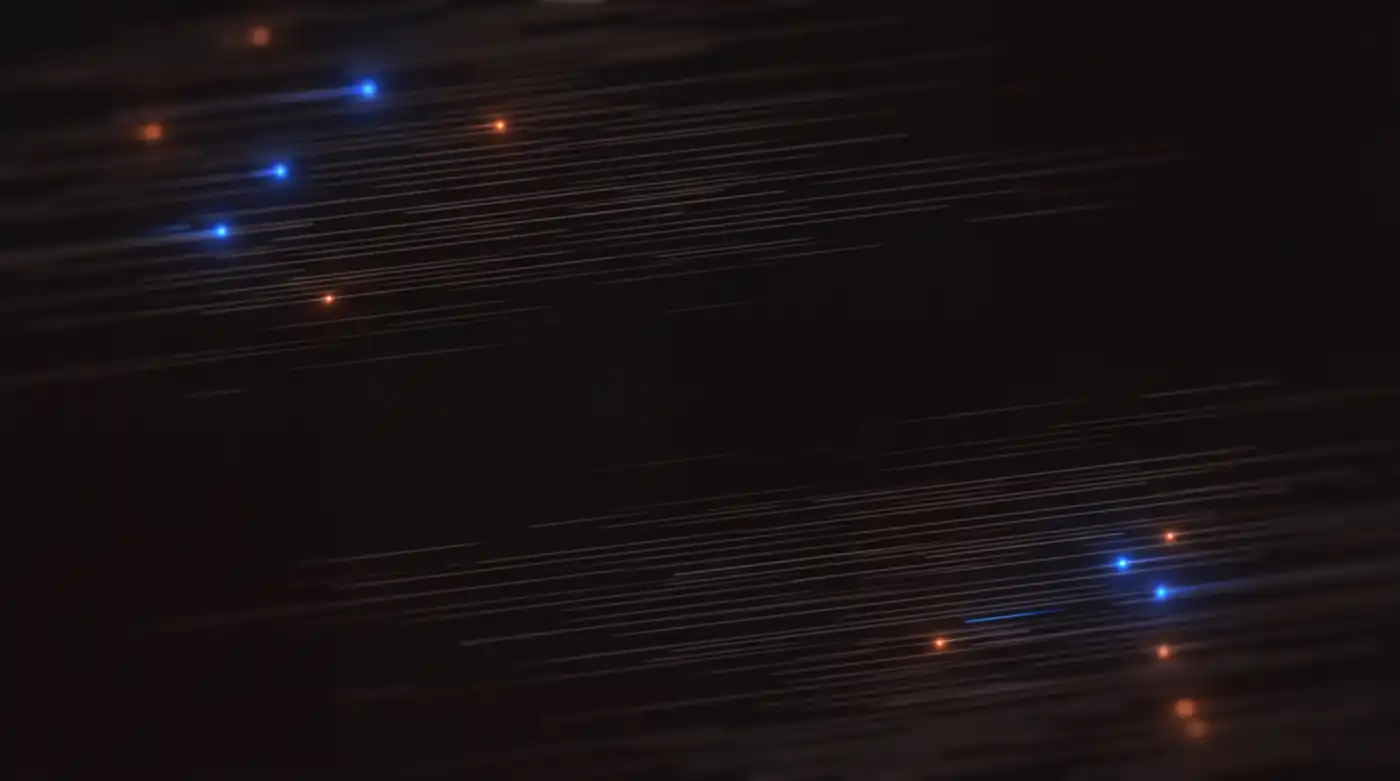
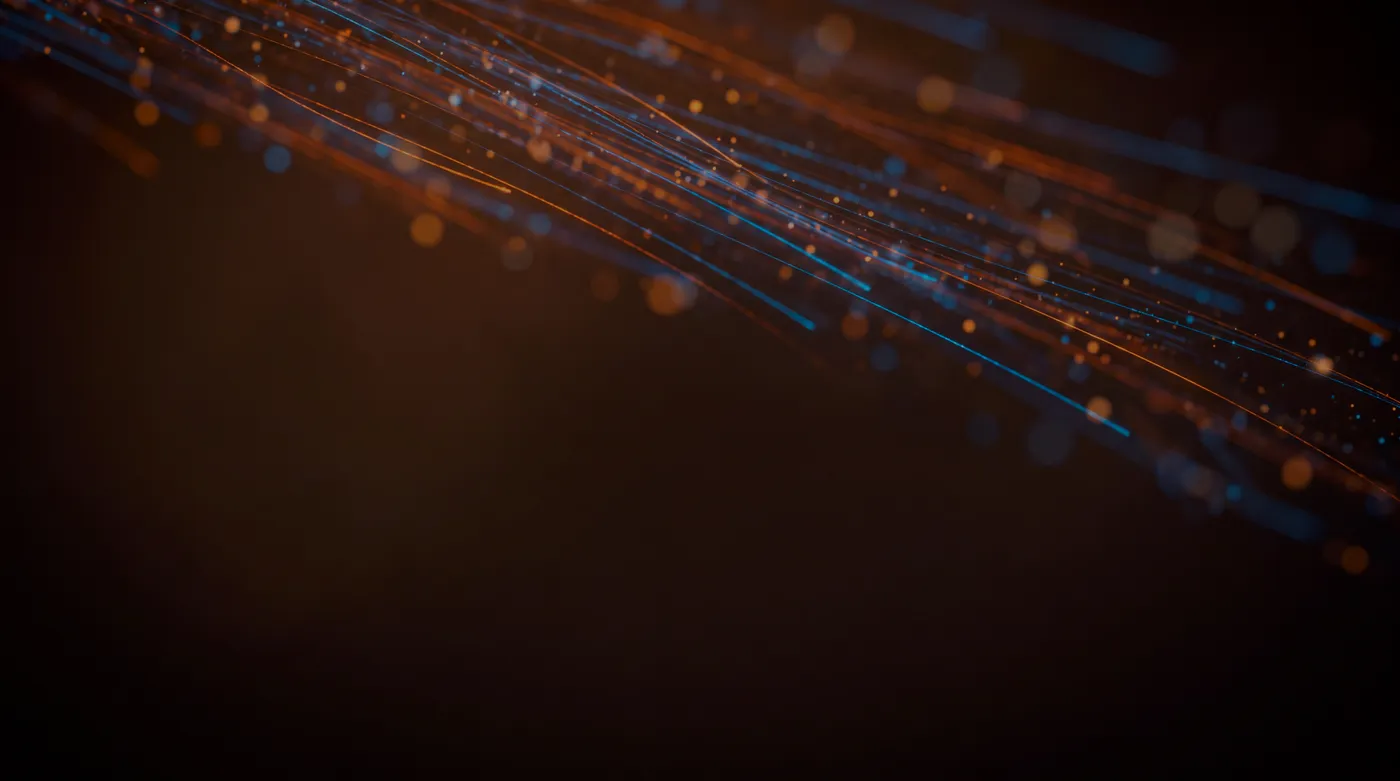
Replace the hero plate with "Filament Field"
The Deep Field plate was generated to a brief asking for "twenty to thirty
widely spaced bokeh points". At the hero's size that read as faint diagonal
scratches. The model was never the limit — the brief was, and re-running the
same brief would have produced the same plate again.

The new plate is light filaments and particle trails on a diagonal, generated
at 4k 16:9 and shipped at 1400px WebP q80. q80 rather than the q60 the old
plate used, because q60 was justified in STATUS.md by that plate being "soft
bokeh with no fine detail"; filaments are fine detail, so the justification
does not carry over.

Two post-processing steps, both derived from hero-plate.spec.ts rather than
from taste:

Flipped vertically. As generated it was dark across the top and bright at the
lower right, and it failed the visibility half at peakLift 4.92 against a floor
of 6.5. The band that gate samples is y 40-150, which is above the headline and
lands mid-plate once the wrapper's -165px offset applies — so briefing "keep the
middle dark to protect the headline" puts the quiet region exactly where the
gate looks for detail. The intuitive brief is upside down.

Brightness 0.65. At full strength both halves passed, but the headline sat at
4.91:1 against a 4.5 floor where the old plate had 9.0:1 — a gate passing on
the last 0.4 of its margin. The peak surplus paid for it:

  1.00  mean 9.20  peak 64.98  headline 4.91:1
  0.80  mean 6.31  peak 38.68  headline 5.83:1
[…]

diff --git a/docs/design/STATUS.md b/docs/design/STATUS.md
@@ -17,38 +17,84 @@ the binding tokens. This file holds the choices and the loose ends.
   a public repository. That last clause is the requirement, not a bonus: it is
   what Satoshi failed. See "Loose ends" for the licence reasoning, and
   `DESIGN-SYSTEM.md § Type` for the test any future face has to pass.
-- **Hero background**: "Deep Field" — sparse blue/ember bokeh drifting in a
-  diagonal band over warm charcoal. **Shipped** as
-  `public/hero-cipher-field.webp` (1400×781, 16 KB).
+- **Hero background**: "Filament Field" — fine blue/ember light filaments and
+  particle trails on a lower-left to upper-right diagonal over warm charcoal,
+  with the upper left and centre dark and open. **Shipped** as
+  `public/hero-cipher-field.webp` (1400x781, 42 KB). The filename is unchanged
+  on purpose: it is referenced by the component, the screenshot generator and
+  the walkthrough, and none of those get churn for a rename.
 
-  It is a regeneration of the concept, not the plate originally chosen. The
-  first pick was a 2752×1536 PNG on the Higgsfield CDN, and that host is
-  refused by the network policy of a sealed container — generating a new one
-  through the MCP server worked, but its result URL is on the same blocked
-  host, so the bytes came back through the Higgsfield sandbox rather than by
-  fetching them here. Prompt and settings, so it can be reproduced or
-  re-rolled: `nano_banana_pro`, 16:9, 4k, the brief in
-  `DESIGN-SYSTEM.md § Imagery` written out longhand — warm near-black ground
-  with a taupe undertone, twenty to thirty widely spaced bokeh points on a
-  lower-left to upper-right diagonal, a handful `#0447FF`, a handful
-  `#FF4704`, the rest dim warm grey, darkest at the left/right/bottom edges,
-  no text or subject of any kind.
+  It replaces the original "Deep Field" bokeh plate, which was generated to a
+  brief asking for "twenty to thirty widely spaced bokeh points". That brief
+  was the problem. Rendered at the hero's size the points read as faint
+  diagonal scratches, and the plate had almost nothing to say — the model was
+  never the limit, and re-running the same brief on the same model would have
+  produced the same thing again.
 
-  Downscaled to 1400px and WebP q60 deliberately: the plate is soft bokeh with
-  no fine detail, so it survives the compression intact and 22 MB of PNG in a
-  repository that promises reproducible builds would be 22 MB nobody can
-  diff. Mounted behind the hero only, at 40% with a radial canvas scrim under
-  the text and a gradient to flat canvas before the workbench. Worst measured
-  contrast over it, per glyph run: 15.2:1 for the headline, 4.8:1 for the
-  dimmed second line (large text, needs 3), 7.0:1 for the body.
+  Prompt and settings, so it can be reproduced or re-rolled: `nano_banana_pro`,
+  16:9, `resolution: 4k`, the brief in `DESIGN-SYSTEM.md` § Imagery written out
+  longhand — long fine light filaments and streaking particle trails sweeping
+  lower-left to upper-right through warm dark air, soft bokeh at varying depths
+  along them, illumination limited to `#0447FF` / `#FF4704` / dim warm grey,
+  warm amber haze only, upper middle left dark and open, deep vignette, and an
+  explicit negative list: no horizon, no ground plane, no grid floor, no
+  wireframe mesh, no subject, no text.
 
-  Runners-up from the original set, if a re-pick is ever wanted (host
-  `d8j0ntlcm91z4.cloudfront.net`, path prefix
-  `user_3IcKP9J7tAl1kmrRAIwI2f3BcKm/hf_20260830_043937_`): bloom
-  `e3bbdfdb-c345-4eb3-9fc0-48702cdd3f2a`, ribbon
-  `205a5da0-bc6c-4198-aab0-826b14257d1b`, topography
-  `b3753996-971c-4e3b-af3b-bc8539c37462`, aurora
-  `de2734f5-805c-4e1c-a1fd-a38728e6b681`.
+  That negative list is most of the work. Three earlier generations failed on
+  exactly the things it now names: a wireframe mesh resolved into a terrain
+  floor with a horizon (the brief had said "no horizon" in one variant and
+  omitted it in the one that needed it), and two others grew a neutral grey
+  smoke plume — § Surfaces drift entering through the imagery door.
+
+  **The submitted model id and the reported one differ.** Every job was
+  submitted as `nano_banana_pro` and came back reporting `model:
+  nano_banana_2`. Recorded rather than explained; if a future re-roll looks
+  unlike this plate, that discrepancy is the first thing to check.
+
+  WebP q80 rather than the q60 the previous plate used, and the reason is a
+  property of the image rather than a preference: q60 was justified in this
+  file by the plate being "soft bokeh with no fine detail, so it survives the
+  compression intact". Filaments are fine detail, so that justification does
+  not transfer. 31 KB against the old 16 KB, still small enough to diff.
+
+  Two post-processing steps are applied to the generation before it ships, and
+  both were derived from the gate rather than from taste:
+
+  **Flipped vertically.** As generated, the plate was dark across the top and
+  bright at the lower right. That failed `hero-plate.spec.ts` at `peakLift
+  4.92` against a floor of 6.5 — the visibility band is sampled at `y 40–150`,
+  which is *above* the headline and lands mid-plate, so briefing "keep the
+  middle dark to protect the headline" put the quiet region exactly where the
+  gate looks for detail. The flip puts the filaments across the top and leaves
+  the lower centre calm, which satisfies both halves at once. Worth keeping in
+  mind for any re-roll: the intuitive brief is the wrong way up.
+
+  **Brightness 0.65** (`sharp().modulate({brightness: 0.65})`). At full
+  strength the plate passed both gates but left the headline at 4.91:1 against
+  a 4.5 floor, where the previous plate had 9.0:1. That is a gate passing on
+  the last 0.4 of its margin, and § Voice does not describe an interface that
+  loud. The peak surplus paid for it — the measured sweep:
+
+  | brightness | meanLift (≥1.85) | peakLift (≥6.5) | headline (≥4.5) |
+  | --- | --- | --- | --- |
+  | 1.00 | 9.20 | 64.98 | 4.91:1 |
+  | 0.80 | 6.31 | 38.68 | 5.83:1 |
+  | **0.65 (shipped)** | **4.64** | **24.96** | **6.75:1** |
+  | 0.55 | 3.73 | 18.07 | 7.51:1 |
+
+  0.65 restores real headline headroom while still leaving the plate twice as
+  present as the 2.32 meanLift the previous one shipped at. This is not the
+  `opacity-40` mistake returning: that was three CSS suppressors stacked on an
+  already-quiet image, taking it to a lift of two values out of 255. This is
+  one adjustment baked into the art, chosen against measurements, on an image
+  that was four times brighter than anything the system had shipped.
+
+  Rejected, with reasons, so they are not re-tried: a geometric lattice (read
+  as a stock tech terrain floor); a warm particle field (too bright across the
+  headline zone, plus a baked-in frame vignette artifact); a cyan/indigo neon
+  plate (breaks the warm-monochrome rule and the spark quarantine outright,
+  and its headline contrast only cleared AA at all because of a composite the
+  code no longer applies).
 - **Generated assets**: Recraft V4.1 `vector` mode for icons-as-art and
   illustrative objects (takes exact hex palettes and background colour);
   the nano-banana image model for atmospheric plates. UI glyphs stay the
@@ -115,9 +161,11 @@ the 12px floor, AA contrast, and the container-inspector spec are part of
   all. Replaced with **Plus Jakarta Sans** (OFL-1.1, npm, in the lockfile,
   precached). ITF invite exception requests under §09 if the face is ever
   wanted badly enough to ask.
-- Grab reference screenshots (images.refero.design and elevenlabs.io) so the
-  craft review can compare pixels, not just mechanisms. Still blocked in a
-  sealed container; both hosts are refused at the proxy.
+- Grab reference screenshots so the craft review can compare pixels, not just
+  mechanisms. **No longer blocked**: `styles.refero.design` and `elevenlabs.io`
+  both answer 200 from a session provisioned after the allowlist widened
+  (`images.refero.design` still returns 403 and was not disambiguated). Not
+  done yet — the hosts are open, the screenshots have not been taken.
 - One flaky browser test, seen once and not reproduced: `calibration.spec.ts`
   › "reports the estimate as measured rather than typical" failed in a full
   run and passed alone and in the next two full runs. It measures real device
@@ -233,13 +281,37 @@ unstyled HTML reports a red build rather than a green one.
 
 The environment's network allowlist binds when a container is **provisioned**,
 not when it is edited — a running session cannot be opened up by changing the
-setting, it has to be a new session. What is reachable from a sealed one:
-`registry.npmjs.org` and `files.pythonhosted.org` (which is how JetBrains Mono
-and Pillow got here), and the Higgsfield MCP server, whose sandbox has its own
-internet access and can be used to move bytes that the local proxy refuses.
+setting, it has to be a new session. A session started after the allowlist was
+widened measured the following, and the results are worth stating precisely
+because two of them contradict what this file used to say:
 
-Firefox and WebKit binaries are not installed in the sealed container and
-`playwright install` cannot reach its CDN, so only `--project=chromium` is
-verifiable locally; CI covers the other two. A bare `npm run test:browser`
-reports ~320 failures that are all "Executable doesn't exist" — do not read
-that as a regression.
+| host | result |
+| --- | --- |
+| `registry.npmjs.org`, `files.pythonhosted.org` | reachable |
+| `d8j0ntlcm91z4.cloudfront.net` (Higgsfield results) | **reachable** — generated bytes can now be pulled straight down with `curl`, no sandbox relay |
+| `styles.refero.design`, `elevenlabs.io` | **reachable** — the reference-screenshot loose end is open |
+| `playwright.download.prss.microsoft.com` | reachable, but see below |
+| `cdn.playwright.dev`, `ppa.launchpadcontent.net` | refused at CONNECT |
+
+**Reachable is not the same as downloadable, and a bare status code will not
+tell you which you have.** A policy denial is the gateway answering `403` *to
+the CONNECT*, with no tunnel and no TLS. A CDN answering `403` or `404` to a
+pathless `GET` has already completed CONNECT and a TLS handshake, and is
+reachable. Both print the same three digits from `curl -o /dev/null -w
+'%{http_code}'`. Read `curl -v` for `CONNECT tunnel established`, or the
+proxy's own `recentRelayFailures` at `$HTTPS_PROXY/__agentproxy/status`, which
+names the host and the reason.
+
+So `playwright install --with-deps firefox webkit` still fails here, but one
+step later than it used to: the Microsoft CDN is reachable and the transfer
+then dies mid-stream ("server closed connection" on the Firefox zip), while
+`cdn.playwright.dev` and the apt PPA are refused outright. Only
+`--project=chromium` is verifiable locally; CI covers the other two. A bare
+`npm run test:browser` reports ~320 failures that are all "Executable doesn't
+exist" — do not read that as a regression.
+
+Chromium also cannot reach the network *through* the relay even where `curl`
+can: its TLS handshake gets ~39 bytes back and the tunnel closes
+(`ws_closed_mid_exchange`). To screenshot a live URL, intercept with
+`page.route` and fulfil each request from a `curl` subprocess. That renders
+the real deployed bytes and is how the live hero shot was taken.

diff --git a/docs/design/DESIGN-SYSTEM.md b/docs/design/DESIGN-SYSTEM.md
@@ -230,11 +230,37 @@ is not a candidate however well it reads.
 
 ## Imagery
 
-- **Hero background**: the "Deep Field" plate (see `STATUS.md` for source) —
-  sparse blue/ember bokeh over warm charcoal. It sits behind the hero only,
-  fades to flat `canvas` before any form or text panel, and text over it
-  always has ≥ AA contrast against the darkest local region or sits on a
-  `canvas` scrim.
+- **Hero background**: the "Filament Field" plate (see `STATUS.md` for
+  source) — fine blue/ember light filaments and particle trails sweeping on an
+  upper-left to lower-right diagonal over warm charcoal, brightest across the
+  top and right, with the left third and the lower centre dark and open. It
+  sits behind the hero only, fades to flat `canvas` before any form or text
+  panel, and carries its sparks at full strength, because imagery is the one
+  place they are allowed.
+
+  The composition is load-bearing rather than a matter of taste, and the two
+  regions that matter are not the ones intuition suggests. `hero-plate.spec.ts`
+  samples a band at `y 40–150` for visibility — that is *above* the headline,
+  and it lands on the middle of the plate once the wrapper's `-165px` offset is
+  applied — while the contrast half samples the headline's own bounding box
+  below it. So the plate has to be **bright where it is sampled for visibility
+  and quiet where the words actually sit**, which means energy high and right,
+  calm low and centre-left. A plate briefed the obvious way round — dark in the
+  middle to protect the headline — fails the visibility half outright; that is
+  how the first accepted candidate failed, at `peakLift 4.92` against a floor
+  of 6.5.
+
+  Neither "looks good" nor "safely dim" is the standard, because both halves
+  are asserted.
+
+  Haze is warm — amber or taupe tinted. A neutral grey or white smoke plume
+  is the § Surfaces drift arriving through the one door this system leaves
+  open, and it is the specific fault that sent the first generations back.
+
+  The plate is no longer dimmed on mount. The `opacity-40` and the canvas
+  scrim that once guarded the headline are gone — they cost a third of the
+  image's visibility to buy 0.3:1 on a floor of 4.5 — and the guarantee they
+  were meant to provide is measured in `hero-plate.spec.ts` instead.
 - **Illustrative objects and icons-as-art** (empty states, tool cards,
   social imagery): generated in the spark palette on `canvas` grounds,
   vector-style, no text baked in.
